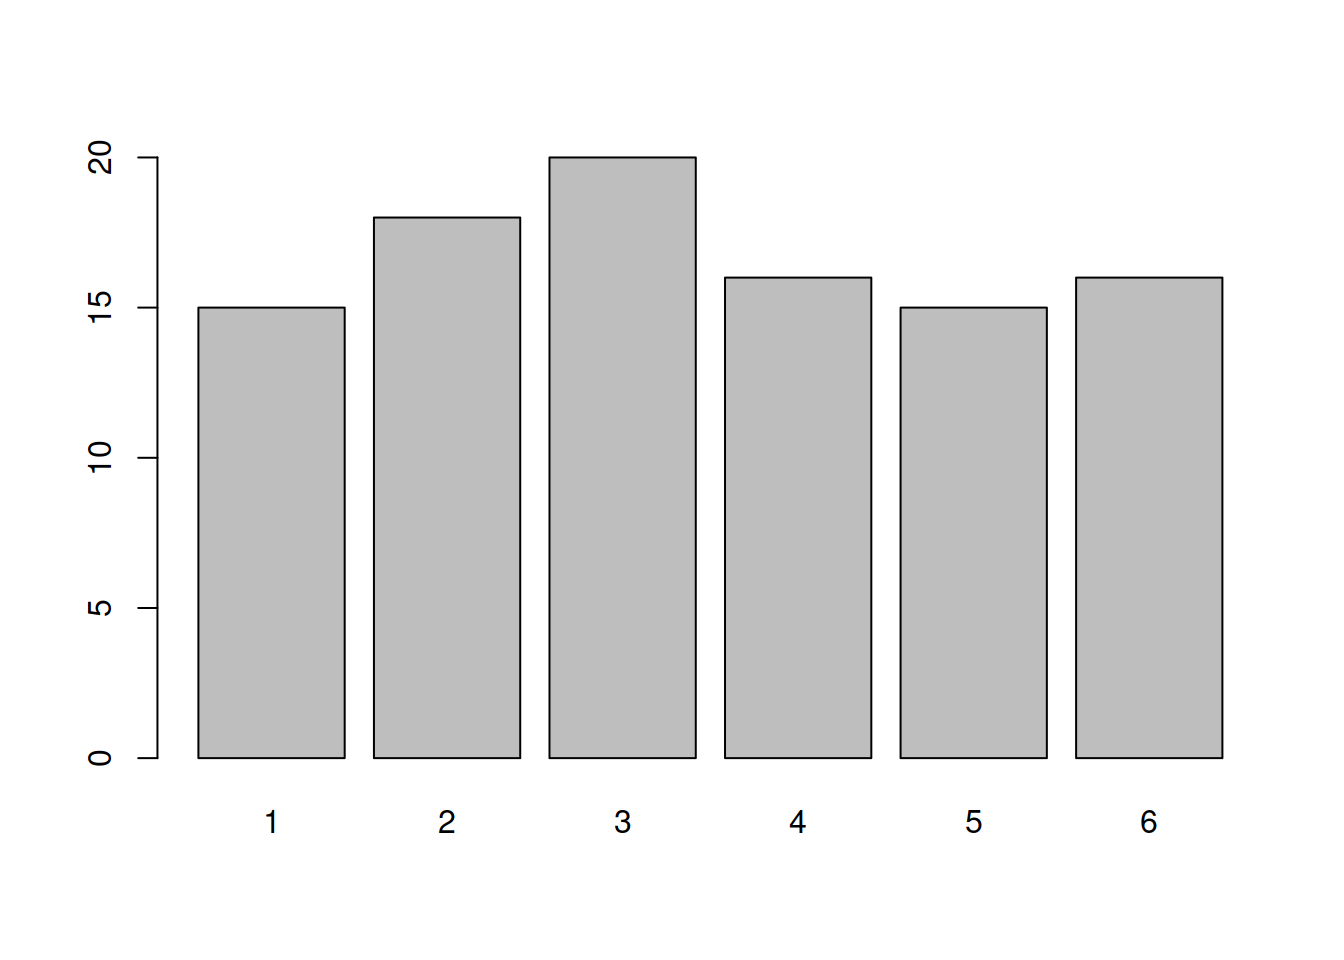
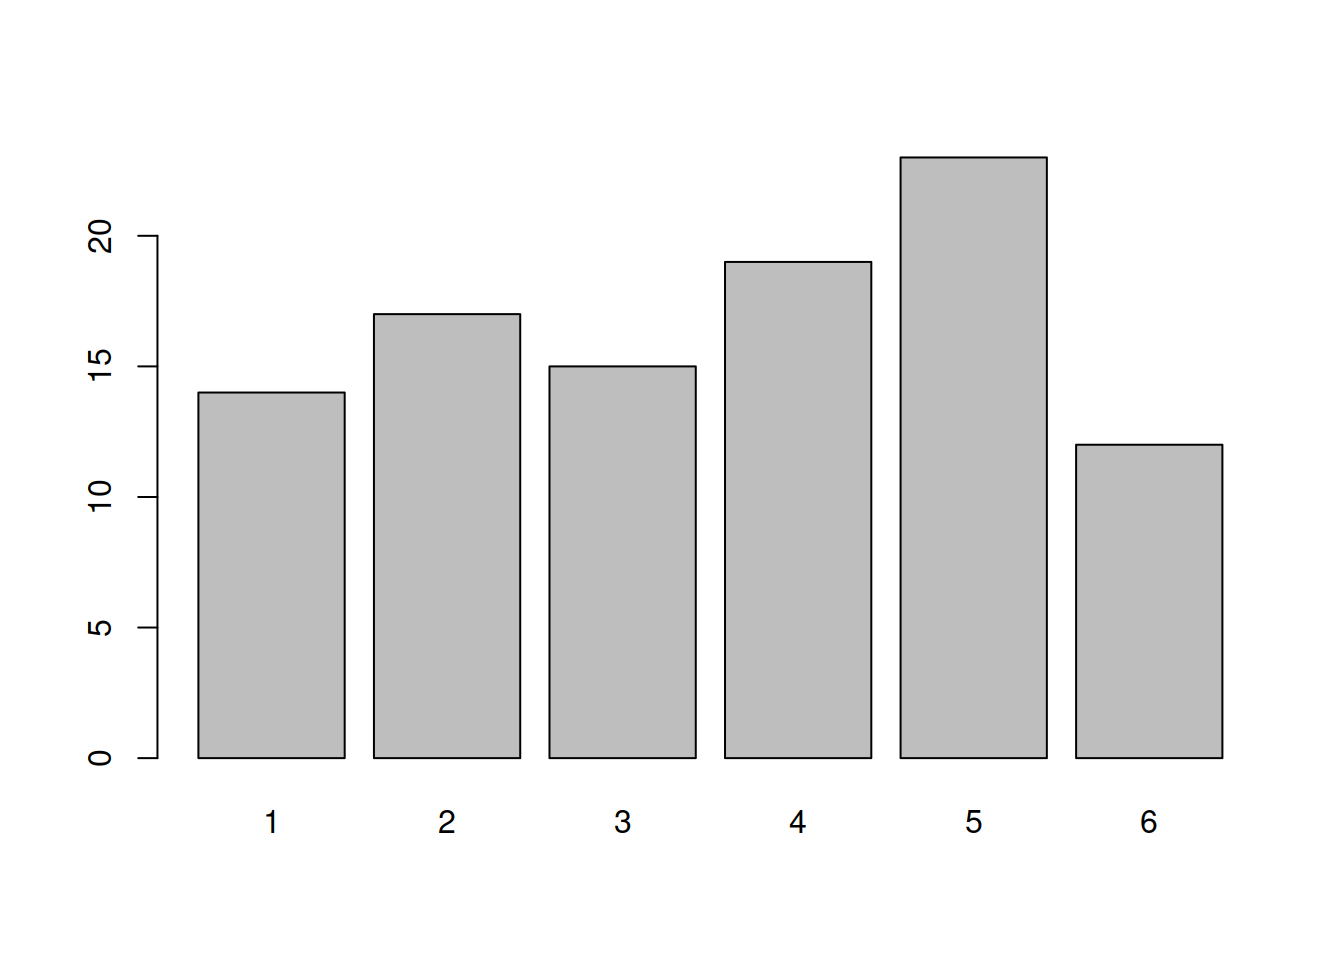
fix link

diff --git a/docs/labs/01_categorical.html b/docs/labs/01_categorical.html
@@ -423,7 +423,7 @@ div.tocify {
 <div class="lo">
 <p><strong>Preliminaries</strong></p>
 <ol style="list-style-type: decimal">
-<li><p>Please ensure you have successfully installed R and RStudio, or are working on RStudio Cloud, and that you have completed the tasks on the <a href="00_intro.html">Getting started in R &amp; RStudio</a> page, which introduced the basics of a) how to navigate around Rstudio, b) how to create and write in an R script, c) how to read data into R, and d) how to use R to do basic arithmetic.</p></li>
+<li><p>Please ensure you have successfully installed R and RStudio, or are working on RStudio Cloud, and that you have completed the tasks on the <a href="00_introPG.html">Getting started in R &amp; RStudio</a> page, which introduced the basics of a) how to navigate around Rstudio, b) how to create and write in an R script, c) how to read data into R, and d) how to use R to do basic arithmetic.</p></li>
 <li><p>Open Rstudio, and make sure you have your USMR course project open.</p></li>
 <li><p>Open a new R script document:<br />
 <strong>File &gt; New File &gt; R Script..</strong><br />
@@ -490,7 +490,7 @@ replicate(20, 1+1)</code></pre>
 <pre class="r"><code>table(roll100)</code></pre>
 <pre><code>## roll100
 ##  1  2  3  4  5  6 
-## 15 18 20 16 15 16</code></pre>
+## 14 17 15 19 23 12</code></pre>
 <p>Which we can then pass to the <code>barplot()</code> function:</p>
 <pre class="r"><code>barplot(table(roll100))</code></pre>
 <p><img src="01_categorical_files/figure-html/unnamed-chunk-6-1.png" width="80%" style="display: block; margin: auto;" /></p>
@@ -790,9 +790,9 @@ starwars2[1:6, ]</code></pre>
 <pre class="r"><code>1:6</code></pre>
 <pre><code>## [1] 1 2 3 4 5 6</code></pre>
 <div class="optional-begin">
-<span id="opt-start-3" class="fa fa-chevron-circle-right optional-icon clickable" onclick="toggle_visibility(&#39;opt-body-3&#39;, &#39;opt-start-3&#39;)"> Extra: Combining $ and []. Click the plus to expand →</span>
+<span id="opt-start-1" class="fa fa-chevron-circle-right optional-icon clickable" onclick="toggle_visibility(&#39;opt-body-1&#39;, &#39;opt-start-1&#39;)"> Extra: Combining $ and []. Click the plus to expand →</span>
 </div>
-<div id="opt-body-3" class="optional-body" style="display: none;">
+<div id="opt-body-1" class="optional-body" style="display: none;">
 <p>We can use the two accessors in combination:</p>
 <pre class="r"><code># extract the variable called &quot;name&quot; and show the 20th entry 
 starwars2$name[20]</code></pre>
@@ -888,9 +888,9 @@ starwars2[starwars2$species == &quot;Droid&quot;, ]</code></pre>
 ## 1 R2-D2     96 &lt;NA&gt;       red       Naboo     Droid  
 ## 2 R5-D4     97 &lt;NA&gt;       red       Tatooine  Droid</code></pre>
 <div class="optional-begin">
-<span id="opt-start-4" class="fa fa-chevron-circle-right optional-icon clickable" onclick="toggle_visibility(&#39;opt-body-4&#39;, &#39;opt-start-4&#39;)"> Optional: with(). Click the plus to expand →</span>
+<span id="opt-start-2" class="fa fa-chevron-circle-right optional-icon clickable" onclick="toggle_visibility(&#39;opt-body-2&#39;, &#39;opt-start-2&#39;)"> Optional: with(). Click the plus to expand →</span>
 </div>
-<div id="opt-body-4" class="optional-body" style="display: none;">
+<div id="opt-body-2" class="optional-body" style="display: none;">
 <p>A useful function is <code>with()</code>. This creates a “container” where the variables of the dataframe are available to R within the <code>with()</code> parentheses without the need to use <code>$</code>:</p>
 <pre class="r"><code>with(starwars2, starwars2[species == &quot;Droid&quot;, ])</code></pre>
 <pre><code>## # A tibble: 2 × 6
@@ -1412,9 +1412,9 @@ ggplot(data = pwords, aes(x = strength)) +
 You can find great documentation on ggplot2 at <a href="https://www.statsandr.com/blog/graphics-in-r-with-ggplot2/" class="uri">https://www.statsandr.com/blog/graphics-in-r-with-ggplot2/</a>.</p>
 </div>
 <div class="optional-begin">
-<span id="opt-start-5" class="fa fa-chevron-circle-right optional-icon clickable" onclick="toggle_visibility(&#39;opt-body-5&#39;, &#39;opt-start-5&#39;)"> Optional - Looking ahead to different aes() and geoms, labels. Click the plus to expand →</span>
+<span id="opt-start-3" class="fa fa-chevron-circle-right optional-icon clickable" onclick="toggle_visibility(&#39;opt-body-3&#39;, &#39;opt-start-3&#39;)"> Optional - Looking ahead to different aes() and geoms, labels. Click the plus to expand →</span>
 </div>
-<div id="opt-body-5" class="optional-body" style="display: none;">
+<div id="opt-body-3" class="optional-body" style="display: none;">
 <p>Use these as reference for when you want to make changes to the plots you create.<br />
 Additionall, remember that google is your friend - there are endless forums with people asking how to do something in ggplot, and you can just copy and paste bits of code to add to your plots!</p>
 <ol style="list-style-type: decimal">
